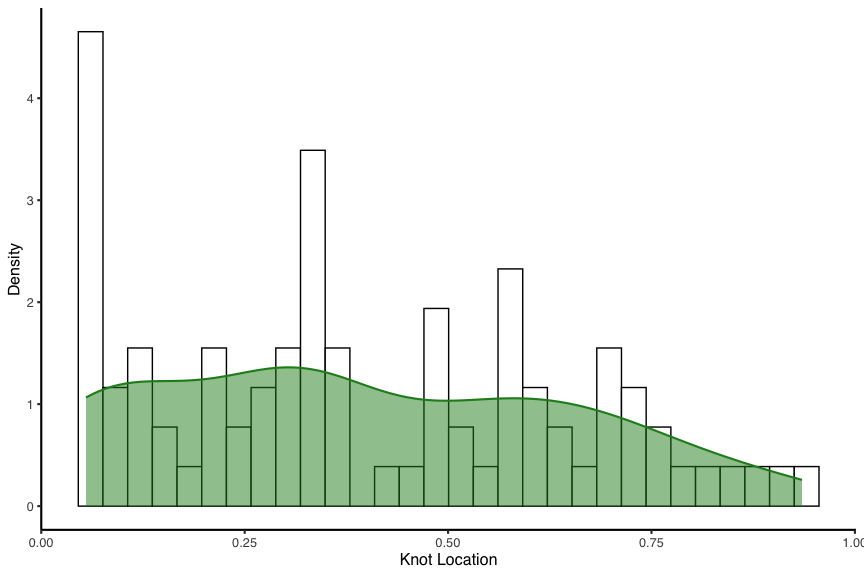
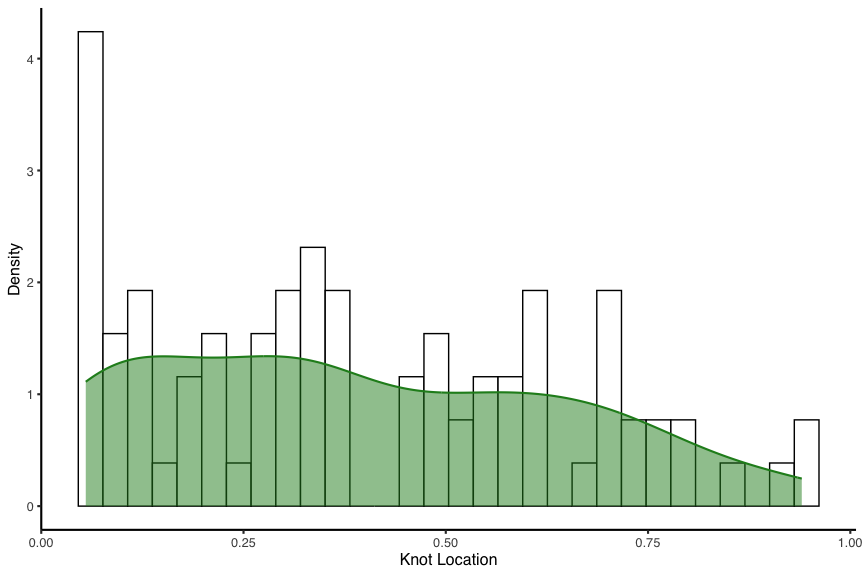
Recompiled README.Rmd

diff --git a/README.md b/README.md
@@ -1,16 +1,21 @@
 
-- [`scLANE`](#sclane)
-  - [Installation](#installation)
-  - [Model structure](#model-structure)
-- [Usage](#usage)
-  - [Libraries](#libraries)
-  - [Input data](#input-data)
-  - [Trajectory DE testing](#trajectory-de-testing)
-  - [Downstream analysis &
-    visualization](#downstream-analysis--visualization)
-- [Conclusions & best practices](#conclusions--best-practices)
-- [Contact information](#contact-information)
-- [References](#references)
+- <a href="#sclane" id="toc-sclane"><code>scLANE</code></a>
+  - <a href="#installation" id="toc-installation">Installation</a>
+  - <a href="#model-structure" id="toc-model-structure">Model structure</a>
+- <a href="#usage" id="toc-usage">Usage</a>
+  - <a href="#libraries" id="toc-libraries">Libraries</a>
+  - <a href="#input-data" id="toc-input-data">Input data</a>
+  - <a href="#trajectory-de-testing"
+    id="toc-trajectory-de-testing">Trajectory DE testing</a>
+  - <a href="#downstream-analysis--visualization"
+    id="toc-downstream-analysis--visualization">Downstream analysis &amp;
+    visualization</a>
+- <a href="#conclusions--best-practices"
+  id="toc-conclusions--best-practices">Conclusions &amp; best
+  practices</a>
+- <a href="#contact-information" id="toc-contact-information">Contact
+  information</a>
+- <a href="#references" id="toc-references">References</a>
 
 <!-- README.md is generated from README.Rmd. Please edit that file -->
 
@@ -173,7 +178,10 @@ scLANE_models_glm <- testDynamic(sim_data,
                                  genes = gene_sample, 
                                  size.factor.offset = cell_offset, 
                                  n.cores = 4)
-#> scLANE testing completed for 100 genes across 1 lineage in 21.203 secs
+#> Registered S3 method overwritten by 'bit':
+#>   method   from  
+#>   print.ri gamlss
+#> scLANE testing completed for 100 genes across 1 lineage in 35.114 secs
 ```
 
 After the function finishes running, we use `getResultsDE()` to generate
@@ -192,13 +200,13 @@ select(scLANE_res_glm, Gene, Lineage, Test_Stat, P_Val, P_Val_Adj, Gene_Dynamic_
                col.names = c("Gene", "Lineage", "LRT stat.", "P-value", "Adj. p-value", "Predicted dynamic status"))
 ```
 
-| Gene   | Lineage | LRT stat. | P-value | Adj. p-value | Predicted dynamic status |
-|:-------|:--------|----------:|--------:|-------------:|-------------------------:|
-| MFSD2B | A       |   209.755 |   0.000 |        0.000 |                        1 |
-| FOXD3  | A       |     4.316 |   0.038 |        0.423 |                        0 |
-| NOP14  | A       |     7.712 |   0.005 |        0.115 |                        0 |
-| TMCO3  | A       |   167.633 |   0.000 |        0.000 |                        1 |
-| SMG1   | A       |     5.062 |   0.080 |        0.423 |                        0 |
+| Gene     | Lineage | LRT stat. | P-value | Adj. p-value | Predicted dynamic status |
+|:---------|:--------|----------:|--------:|-------------:|-------------------------:|
+| MFSD2B   | A       |   209.755 |   0.000 |        0.000 |                        1 |
+| GOLGA8EP | A       |     4.390 |   0.036 |        0.537 |                        0 |
+| NOP14    | A       |     7.712 |   0.005 |        0.132 |                        0 |
+| TMCO3    | A       |   167.582 |   0.000 |        0.000 |                        1 |
+| BATF2    | A       |     5.216 |   0.074 |        0.537 |                        0 |
 
 ### GEE mode
 
@@ -221,7 +229,7 @@ scLANE_models_gee <- testDynamic(sim_data,
                                  id.vec = sim_data$subject, 
                                  cor.structure = "ar1", 
                                  n.cores = 4)
-#> scLANE testing completed for 100 genes across 1 lineage in 2.267 mins
+#> scLANE testing completed for 100 genes across 1 lineage in 2.201 mins
 ```
 
 We again generate the table of DE test results. The variance of the
@@ -240,11 +248,11 @@ select(scLANE_res_gee, Gene, Lineage, Test_Stat, P_Val, P_Val_Adj, Gene_Dynamic_
 
 | Gene     | Lineage | Wald stat. | P-value | Adj. p-value | Predicted dynamic status |
 |:---------|:--------|-----------:|--------:|-------------:|-------------------------:|
-| DGUOK    | A       |  64351.893 |       0 |            0 |                        1 |
-| TBCC     | A       |     40.399 |       0 |            0 |                        1 |
+| DGUOK    | A       | 200675.460 |   0.000 |        0.000 |                        1 |
+| VDAC1    | A       |     13.025 |   0.001 |        0.025 |                        0 |
 | GOLGA8EP | A       |         NA |      NA |           NA |                        0 |
-| PCF11    | A       |   2672.280 |       0 |            0 |                        1 |
-| IDH3G    | A       |    863.479 |       0 |            0 |                        1 |
+| WAPAL    | A       |   3254.351 |   0.000 |        0.000 |                        1 |
+| IDH3G    | A       |    863.479 |   0.000 |        0.000 |                        1 |
 
 ### GLMM mode
 
@@ -268,7 +276,7 @@ scLANE_models_glmm <- testDynamic(sim_data,
                                   glmm.adaptive = TRUE, 
                                   id.vec = sim_data$subject, 
                                   n.cores = 4)
-#> scLANE testing completed for 100 genes across 1 lineage in 2.157 mins
+#> scLANE testing completed for 100 genes across 1 lineage in 3.427 mins
 ```
 
 {% note %}
@@ -298,11 +306,11 @@ select(scLANE_res_glmm, Gene, Lineage, Test_Stat, P_Val, P_Val_Adj, Gene_Dynamic
 
 | Gene    | Lineage | LRT stat. | P-value | Adj. p-value | Predicted dynamic status |
 |:--------|:--------|----------:|--------:|-------------:|-------------------------:|
-| KLHDC10 | A       |   123.059 |   0.000 |            0 |                        1 |
-| DDX41   | A       |    74.493 |   0.000 |            0 |                        1 |
+| DDX1    | A       |   131.707 |   0.000 |            0 |                        1 |
+| TSPAN1  | A       |    78.616 |   0.000 |            0 |                        1 |
 | WDSUB1  | A       |        NA |      NA |           NA |                        0 |
 | FAM135B | A       |        NA |      NA |           NA |                        0 |
-| DAB1    | A       |     8.730 |   0.726 |            1 |                        0 |
+| NLGN4Y  | A       |     9.878 |   0.627 |            1 |                        0 |
 
 ## Downstream analysis & visualization
 
